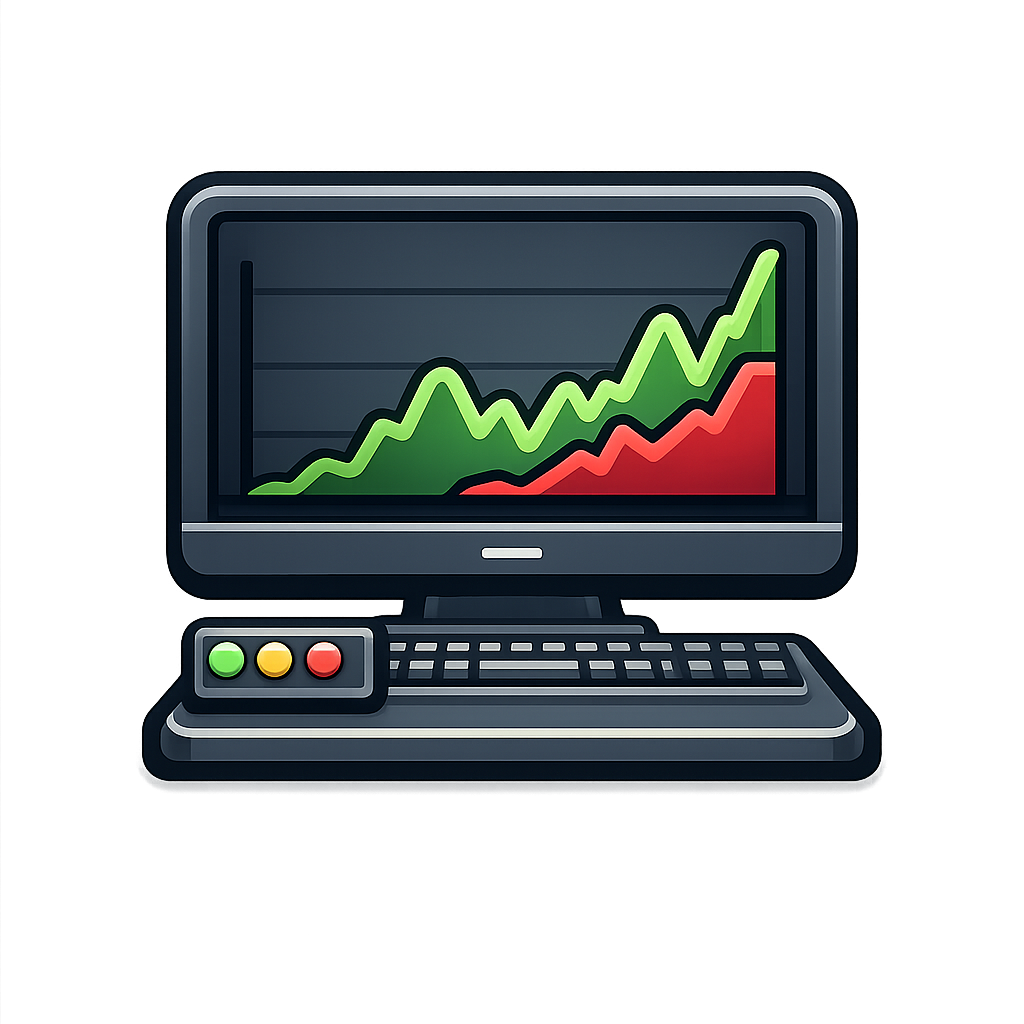
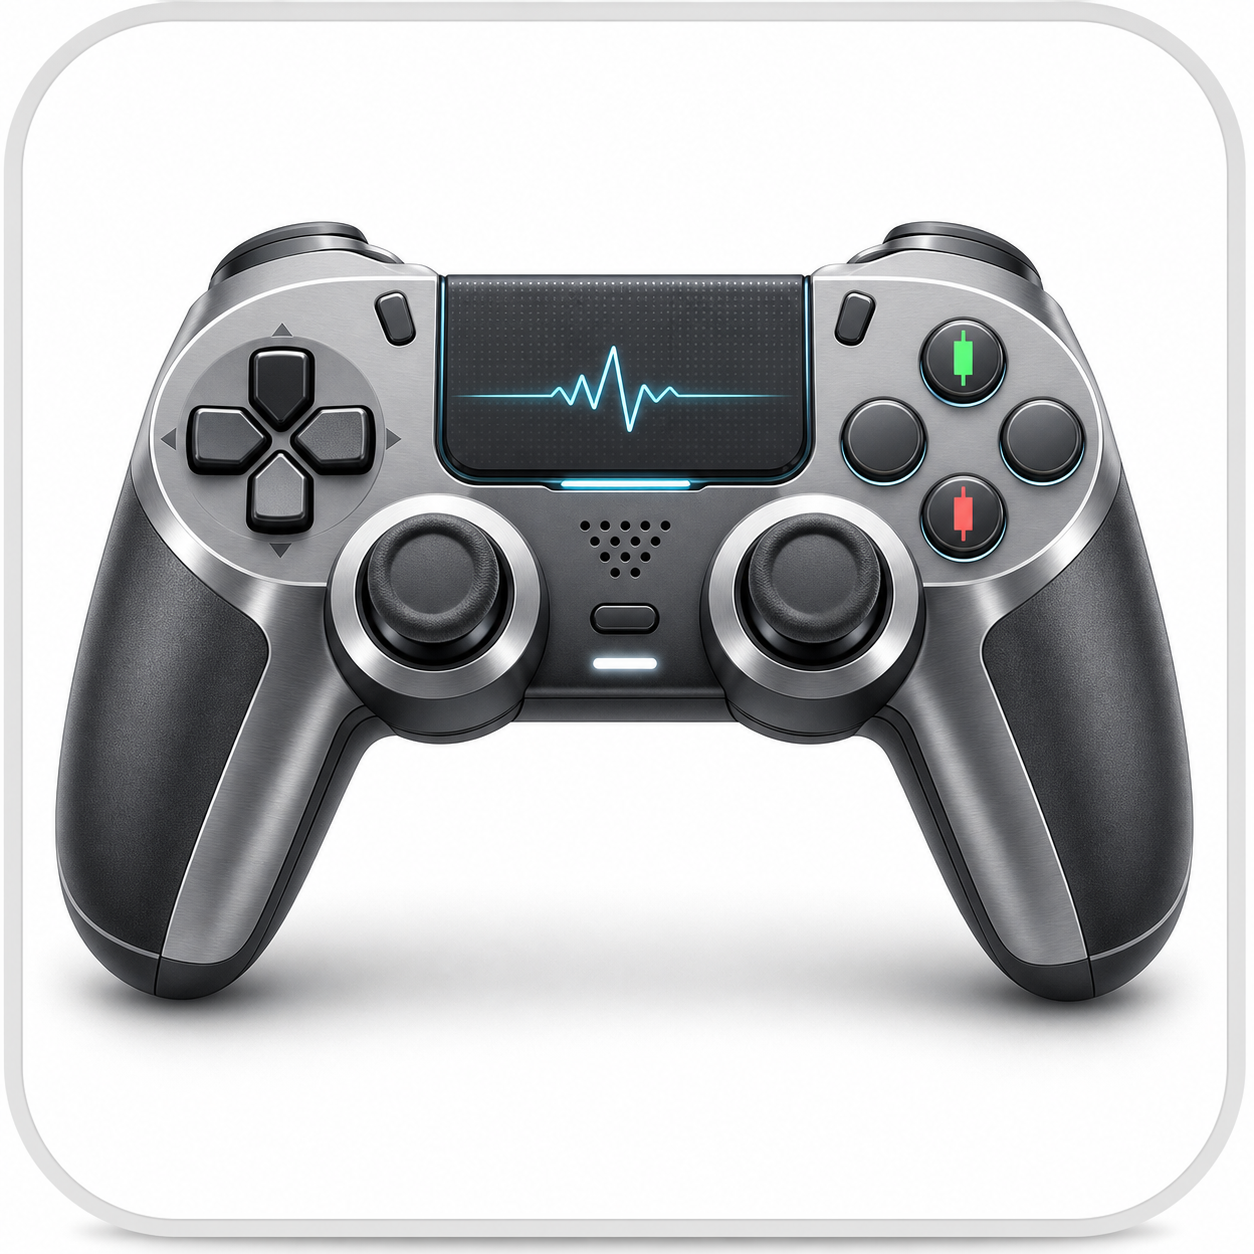
Harden alerts and refine dashboard controls

diff --git a/control/controlServer.js b/control/controlServer.js
@@ -21,11 +21,62 @@ const { sendTelegram } = require("../src/services/telegramService");
 let algoProcess = null;
 let ngrokProcess = null;
 let ngrokStarting = false;
+let ngrokRestartTimer = null;
+let ngrokRestartAttempts = 0;
+let ngrokNextRestartAt = 0;
+let ngrokOutageAlerted = false;
 let ngrokUrl = "";
 let keepAlgoRunning = process.env.IC_AUTO_MANAGE === "true";
 let keepNgrokRunning = process.env.IC_AUTO_MANAGE === "true";
 let shuttingDown = false;
 const SELF_HEAL_DELAY_MS = 5000;
+const NGROK_MAX_RESTART_DELAY_MS = 5 * 60 * 1000;
+
+function getNgrokRestartDelay() {
+  return Math.min(
+    SELF_HEAL_DELAY_MS * (2 ** Math.min(ngrokRestartAttempts, 6)),
+    NGROK_MAX_RESTART_DELAY_MS,
+  );
+}
+
+function scheduleNgrokRestart() {
+  if (!keepNgrokRunning || shuttingDown || ngrokRestartTimer) return;
+
+  const restartDelay = getNgrokRestartDelay();
+  ngrokRestartAttempts += 1;
+  ngrokNextRestartAt = Date.now() + restartDelay;
+  appendLifecycleLog(
+    `Ngrok restart attempt ${ngrokRestartAttempts} scheduled in ${Math.round(restartDelay / 1000)} seconds`,
+    "warn",
+  );
+
+  if (!ngrokOutageAlerted) {
+    ngrokOutageAlerted = true;
+    sendTelegram("⚠️ IC Algo Bot: ngrok stopped unexpectedly. Automatic recovery is in progress; repeated alerts are suppressed.");
+  }
+
+  ngrokRestartTimer = setTimeout(() => {
+    ngrokRestartTimer = null;
+    ngrokNextRestartAt = 0;
+    if (!keepNgrokRunning || shuttingDown) return;
+    axios.post(`http://localhost:${PORT}/api/start-ngrok`).catch((error) => {
+      appendLifecycleLog(`Ngrok automatic restart failed: ${error.message}`, "error");
+      scheduleNgrokRestart();
+    });
+  }, restartDelay);
+  ngrokRestartTimer.unref();
+}
+
+function clearNgrokRestartState({ recovered = false } = {}) {
+  if (ngrokRestartTimer) clearTimeout(ngrokRestartTimer);
+  ngrokRestartTimer = null;
+  ngrokNextRestartAt = 0;
+  ngrokRestartAttempts = 0;
+  if (recovered && ngrokOutageAlerted) {
+    sendTelegram("✅ IC Algo Bot: ngrok connection recovered.");
+  }
+  ngrokOutageAlerted = false;
+}
 const logPath = path.join(__dirname, "..", "logs", "app.log");
 const instrumentMasterPath = path.join(__dirname, "..", "api-scrip-master.csv");
 const tradingViewIndicatorPath = path.join(
@@ -1962,6 +2013,12 @@ app.post("/api/stop-server", async (req, res) => {
 // Start ngrok so TradingView can reach the local webhook.
 app.post("/api/start-ngrok", async (req, res) => {
   keepNgrokRunning = true;
+  if (ngrokNextRestartAt > Date.now()) {
+    return res.json({
+      success: true,
+      message: "Ngrok restart is waiting for the recovery backoff",
+    });
+  }
   if (ngrokStarting) {
     appendLifecycleLog("Ngrok start requested while startup is already in progress");
     return res.json({
@@ -1976,6 +2033,7 @@ app.post("/api/start-ngrok", async (req, res) => {
     const health = await getNgrokHealth();
 
     if (health.running && !health.duplicate) {
+      clearNgrokRestartState({ recovered: true });
       appendLifecycleLog(
         `Ngrok start requested but already running url=${health.url || "unknown"}`,
       );
@@ -2008,15 +2066,7 @@ app.post("/api/start-ngrok", async (req, res) => {
       );
       ngrokProcess = null;
       if (keepNgrokRunning && !shuttingDown) {
-        appendLifecycleLog("Ngrok stopped unexpectedly; restarting in 5 seconds", "warn");
-        sendTelegram("⚠️ IC Algo Bot: ngrok stopped unexpectedly. Automatic restart is in progress.");
-        setTimeout(() => {
-          if (keepNgrokRunning && !shuttingDown) {
-            axios.post(`http://localhost:${PORT}/api/start-ngrok`).catch((error) =>
-              appendLifecycleLog(`Ngrok automatic restart failed: ${error.message}`, "error"),
-            );
-          }
-        }, SELF_HEAL_DELAY_MS);
+        scheduleNgrokRestart();
       }
     });
 
@@ -2038,6 +2088,7 @@ app.post("/api/start-ngrok", async (req, res) => {
 // Stop ngrok, including any process that may have been started separately.
 app.post("/api/stop-ngrok", async (req, res) => {
   keepNgrokRunning = false;
+  clearNgrokRestartState();
   try {
     appendLifecycleLog("Ngrok stop requested");
 
@@ -2593,10 +2644,13 @@ setInterval(async () => {
     );
   }
 
-  if (keepNgrokRunning && !(await getNgrokHealth()).running) {
-    axios.post(`http://localhost:${PORT}/api/start-ngrok`).catch((error) =>
-      appendLifecycleLog(`Ngrok health recovery failed: ${error.message}`, "error"),
-    );
+  if (keepNgrokRunning) {
+    const ngrokHealth = await getNgrokHealth();
+    if (ngrokHealth.running && !ngrokHealth.duplicate) {
+      clearNgrokRestartState({ recovered: true });
+    } else {
+      scheduleNgrokRestart();
+    }
   }
 }, 15000).unref();
 
@@ -2604,6 +2658,7 @@ function markDashboardShutdown() {
   shuttingDown = true;
   keepAlgoRunning = false;
   keepNgrokRunning = false;
+  clearNgrokRestartState();
 }
 
 function shutdownDashboardProcess() {

diff --git a/src/services/telegramService.js b/src/services/telegramService.js
@@ -7,6 +7,50 @@ const axios = require("axios");
 const logger = require("./logger");
 const { getRuntimeEnv } = require("./dhanRuntimeConfig");
 
+const DEFAULT_DEDUPE_WINDOW_MS = 60 * 1000;
+const DEFAULT_MIN_SEND_INTERVAL_MS = 1100;
+const recentMessages = new Map();
+let sendQueue = Promise.resolve();
+let lastSendStartedAt = 0;
+
+function getPositiveNumber(value, fallback) {
+  const number = Number(value);
+  return Number.isFinite(number) && number >= 0 ? number : fallback;
+}
+
+function delay(milliseconds) {
+  return new Promise((resolve) => setTimeout(resolve, milliseconds));
+}
+
+function shouldSuppressDuplicate(message, now = Date.now()) {
+  const env = getRuntimeEnv();
+  const windowMs = getPositiveNumber(
+    env.TELEGRAM_DEDUPE_WINDOW_MS,
+    DEFAULT_DEDUPE_WINDOW_MS,
+  );
+  const key = String(message);
+  const previous = recentMessages.get(key);
+
+  // Record at queue time so concurrent copies cannot all pass the check.
+  recentMessages.set(key, now);
+  for (const [storedMessage, storedAt] of recentMessages) {
+    if (now - storedAt > windowMs) recentMessages.delete(storedMessage);
+  }
+
+  return windowMs > 0 && previous !== undefined && now - previous < windowMs;
+}
+
+async function waitForSendSlot() {
+  const env = getRuntimeEnv();
+  const intervalMs = getPositiveNumber(
+    env.TELEGRAM_MIN_SEND_INTERVAL_MS,
+    DEFAULT_MIN_SEND_INTERVAL_MS,
+  );
+  const remaining = intervalMs - (Date.now() - lastSendStartedAt);
+  if (remaining > 0) await delay(remaining);
+  lastSendStartedAt = Date.now();
+}
+
 function isTelegramEnabled() {
   const env = getRuntimeEnv();
   return String(env.TELEGRAM_ENABLED).toLowerCase() === "true";
@@ -73,7 +117,22 @@ function sendTelegram(message) {
     });
   }
 
-  void sendTelegramAndWait(message);
+  if (shouldSuppressDuplicate(message)) {
+    logger.info("Telegram duplicate suppressed");
+    return Promise.resolve({
+      success: true,
+      skipped: true,
+      duplicate: true,
+    });
+  }
+
+  // Serialize sends and leave a small gap to avoid Telegram rate-limit bursts.
+  sendQueue = sendQueue
+    .catch(() => undefined)
+    .then(async () => {
+      await waitForSendSlot();
+      return sendTelegramAndWait(message);
+    });
 
   return Promise.resolve({
     success: true,

diff --git a/control/public/index.html b/control/public/index.html
@@ -919,7 +919,7 @@
               formatStreakPlannerUpdatedAt(result.planner?.updatedAt),
             );
           } catch (error) {
-            sap.m.MessageToast.show("Unable to load Streak Planner");
+            sap.m.MessageToast.show("Unable to load Probability");
           }
         }
 
@@ -945,9 +945,9 @@
               "/STREAK_PLANNER_UPDATED_LABEL",
               formatStreakPlannerUpdatedAt(result.planner?.updatedAt),
             );
-            if (!options.silent) sap.m.MessageToast.show("Streak Planner saved");
+            if (!options.silent) sap.m.MessageToast.show("Probability saved");
           } catch (error) {
-            sap.m.MessageToast.show("Unable to save Streak Planner");
+            sap.m.MessageToast.show("Unable to save Probability");
           } finally {
             model.setProperty("/STREAK_PLANNER_SAVING", false);
           }
@@ -4091,7 +4091,7 @@
                 items: [
                   new sap.m.VBox({
                     items: [
-                      new sap.m.Title({ text: "🧭 Streak Planner", level: "H3" }),
+                      new sap.m.Title({ text: "Probability", level: "H3" }),
                     ],
                   }),
                   new sap.m.Text({
@@ -5018,13 +5018,8 @@
 
               new sap.m.HBox({
                 items: [
-                  ...TRADINGVIEW_ADDITIONAL_TIMEFRAME_FIELDS.filter(
-                    (field) => field.key !== "ALLOW_TV_TIMEFRAME_30M",
-                  ),
                   TRADINGVIEW_BASE_TIMEFRAME_FIELD,
-                  TRADINGVIEW_ADDITIONAL_TIMEFRAME_FIELDS.find(
-                    (field) => field.key === "ALLOW_TV_TIMEFRAME_30M",
-                  ),
+                  ...TRADINGVIEW_ADDITIONAL_TIMEFRAME_FIELDS,
                 ].map(
                   createTradingViewTimeframeCheckbox,
                 ),
@@ -6421,7 +6416,7 @@
           return new sap.m.VBox({
             items: [
               new sap.m.Title({
-                text: "⚙ System Readiness",
+                text: "🛠️ System Readiness",
                 level: "H3",
               }).addStyleClass("sectionTitle"),
 
@@ -8114,8 +8109,8 @@
 
             new sap.m.IconTabFilter({
               key: "streakPlanner",
-              text: "Streak Planner",
-              icon: "sap-icon://table-chart",
+              text: "Probability",
+              icon: "images/tab-probability.png",
               content: [streakPlannerCard()],
             }),
           ],
@@ -8130,12 +8125,6 @@
                 new sap.m.HBox({
                   alignItems: "Center",
                   items: [
-                    new sap.m.Avatar({
-                      src: "images/ic-bull-face.png",
-                      displaySize: "XL",
-                      displayShape: "Circle",
-                    }).addStyleClass("botAvatar"),
-
                     new sap.m.VBox({
                       items: [
                         new sap.m.Title({
@@ -8209,6 +8198,12 @@
                         }).addStyleClass("marketDayStrip"),
                       ],
                     }).addStyleClass("heroMainContent"),
+
+                    new sap.m.Avatar({
+                      src: "images/ic-bull-face.png",
+                      displaySize: "XL",
+                      displayShape: "Circle",
+                    }).addStyleClass("botAvatar"),
 
                     new sap.m.VBox({
                       visible: {

diff --git a/control/public/style.css b/control/public/style.css
@@ -84,7 +84,7 @@
 .botAvatar {
   width: 148px !important;
   height: 148px !important;
-  margin-right: 22px;
+  margin-left: 22px;
   border: 1px solid rgba(245, 184, 75, 0.34);
   box-shadow:
     0 14px 30px rgba(0, 0, 0, 0.22),
@@ -346,9 +346,26 @@
   width: 58px !important;
   height: 58px !important;
   border: 0 !important;
-  border-radius: 10px !important;
+  border-radius: 16px !important;
+  clip-path: inset(0 round 16px);
   background: transparent !important;
-  object-fit: cover;
+  object-fit: contain;
+  transform: scale(0.9);
+  transform-origin: center;
+}
+
+/* The supplied artwork has different built-in margins. Compensate so the
+   visible symbols, rather than only their PNG canvases, share one size. */
+.cockpitTabs .sapMITBFilterIcon.sapMImg[src*="tab-risk-guard.png"] {
+  transform: scale(0.96);
+}
+
+.cockpitTabs .sapMITBFilterIcon.sapMImg[src*="tab-probability.png"] {
+  transform: scale(0.8);
+}
+
+.cockpitTabs .sapMITBFilterIcon.sapMImg[src*="tab-tv-webhook.png"] {
+  transform: scale(0.82);
 }
 
 .cockpitTabs .sapMITBFilterWrapper .sapMITBTab {